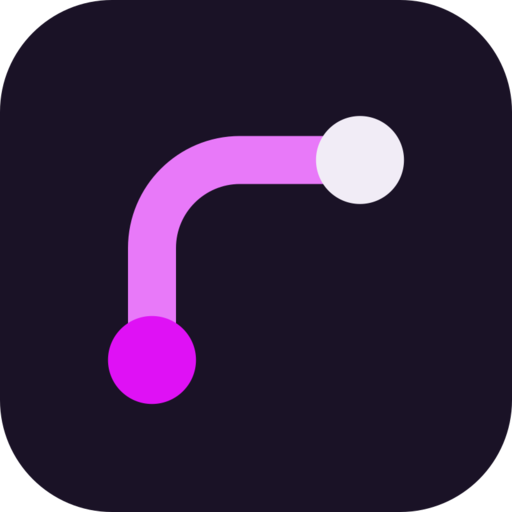
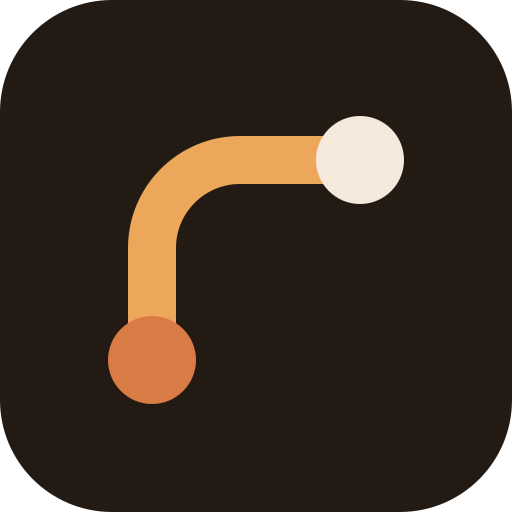
Keep Autumn as the sole production theme

Changed region(s): [[0.1875, 0.2188, 0.8125, 0.8125]]

diff --git a/public/index.html b/public/index.html
@@ -1,10 +1,10 @@
 <!doctype html>
-<html lang="en" data-palette="galenius">
+<html lang="en" data-palette="autumn">
 <head>
 <meta charset="utf-8">
 <meta name="viewport" content="width=device-width, initial-scale=1">
 <meta name="color-scheme" content="dark">
-<meta name="theme-color" content="#0f0a15">
+<meta name="theme-color" content="#17110e">
 <title>AS218429 · GL-AS</title>
 <meta name="description" content="AS218429 (GL-AS) is the hosting and backbone network behind Ruxora and GaleniusNodes. Upstreams, DDoS protection, registry records, geofeed and contact for network operators.">
 <link rel="canonical" href="https://as218429.net/">
@@ -13,19 +13,17 @@
 <meta property="og:url" content="https://as218429.net/">
 <meta property="og:type" content="website">
 <meta property="og:image" content="https://as218429.net/assets/brand/org-icon.png">
-<link rel="icon" href="/assets/brand/org-icon.svg" type="image/svg+xml">
-<link rel="apple-touch-icon" href="/assets/brand/org-icon.png">
+<link rel="icon" href="/assets/brand/org-icon.svg?v=autumn-1" type="image/svg+xml">
+<link rel="apple-touch-icon" href="/assets/brand/org-icon.png?v=autumn-1">
 <link rel="preload" href="/assets/fonts/schibsted-f5ed7f023d.woff2" as="font" type="font/woff2" crossorigin>
-<script src="/assets/palette.js"></script>
-<link rel="stylesheet" href="/assets/site.css">
+<link rel="stylesheet" href="/assets/site.css?v=autumn-1">
 </head>
 <body>
 <a class="skip" href="#main">Skip to content</a>
 <header class="bar" id="top">
   <div class="wrap">
-    <a class="wm" href="#top"><img src="/assets/brand/org-icon.svg" alt="" width="28" height="28"><span>AS218429</span></a>
+    <a class="wm" href="#top"><img src="/assets/brand/org-icon.svg?v=autumn-1" alt="" width="28" height="28"><span>AS218429</span></a>
     <nav aria-label="Sections"><a href="#networks">Networks</a><a href="#protection">Protection</a><a href="#upstreams">Upstreams</a><a href="#records">Records</a><a href="#contact">Contact</a></nav>
-    <div class="pal" role="group" aria-label="Colour palette" data-palette-switch><button type="button" data-set="galenius" aria-pressed="true"><i aria-hidden="true"></i>Galenius</button><button type="button" data-set="autumn" aria-pressed="false"><i aria-hidden="true"></i>Autumn</button></div>
   </div>
 </header>
 
@@ -119,7 +117,7 @@
       <li><a href="mailto:gvol@nexusystems.org?subject=AS218429%20infrastructure%20question%3A%20&amp;body=Hello%2C%0A%0AOrganisation%3A%0AQuestion%3A%0A%0AThanks%2C%0A"><b>Infrastructure</b><span>Hosting infrastructure or backbone questions.</span><i>Ask a question</i></a></li>
       <li><a href="mailto:gvol@nexusystems.org?subject=AS218429%20abuse%20report%3A%20&amp;body=Hello%2C%0A%0AAffected%20IP%20address%28es%29%3A%0ADate%20and%20time%20%28UTC%29%3A%0AType%20of%20abuse%3A%0ALogs%20or%20evidence%20%28with%20timestamps%20and%20time%20zone%29%3A%0A%0AThanks%2C%0A"><b>Abuse</b><span>Affected IP, time, and logs with timestamps.</span><i>Report abuse</i></a></li>
     </ul>
-    <p class="mbox"><span>Mailbox <a href="mailto:gvol@nexusystems.org">gvol@nexusystems.org</a></span><button type="button" class="copy" data-copy="gvol@nexusystems.org" data-status="#copy-status">Copy address</button><span id="copy-status" class="vh" role="status"></span></p>
+    <p class="mbox"><span>Mailbox <a href="mailto:gvol@nexusystems.org">gvol@nexusystems.org</a></span><button type="button" class="copy" hidden data-copy="gvol@nexusystems.org" data-status="#copy-status">Copy address</button><span id="copy-status" class="vh" role="status"></span></p>
   </div>
 </section>
 </main>
@@ -130,6 +128,6 @@
     <nav aria-label="Footer"><a class="ext" href="https://ruxora.org/" target="_blank" rel="noopener noreferrer">Ruxora</a><a class="ext" href="https://galeniusnodes.com/" target="_blank" rel="noopener noreferrer">GaleniusNodes</a><a href="#top">Back to top</a></nav>
   </div>
 </footer>
-<script src="/assets/site.js" defer></script>
+<script src="/assets/site.js?v=autumn-1" defer></script>
 </body>
 </html>

diff --git a/public/assets/site.css b/public/assets/site.css
@@ -1,20 +1,15 @@
-/* as218429.net — one page, two dark palettes (Galenius default, Autumn alternate). */
+/* as218429.net — one page, one dark palette (Autumn). */
 @font-face{font-family:"Schibsted Grotesk";font-style:normal;font-weight:400 800;font-display:swap;src:url("fonts/schibsted-f5ed7f023d.woff2") format("woff2")}
 @font-face{font-family:"IBM Plex Mono";font-style:normal;font-weight:400;font-display:swap;src:url("fonts/plex-mono-d196e8ee77.woff2") format("woff2")}
 
 :root{
   color-scheme:dark;
-  /* Galenius: sampled from galeniusnodes.com production .dark tokens */
-  --bg:#0f0a15;--bg-deep:#09060d;--panel:#1a1226;--panel2:#241a33;--panel3:#2f2342;
-  --line:#d6bef01f;--line2:#d6bef038;--fg:#f1ecf6;--muted:#a99bbb;
-  --accent:#df11f5;--accent2:#e879f9;--on:#0f0a15;--ring:#e879f9;
-  --m:clamp(16px,4vw,56px);--w:1180px;--r:14px;--ease:cubic-bezier(.2,.7,.1,1);
-  --sans:"Schibsted Grotesk",system-ui,sans-serif;--mono:"IBM Plex Mono",ui-monospace,monospace;
-}
-:root[data-palette=autumn]{
+  /* Autumn: warm umber ground, copper and amber accents */
   --bg:#17110e;--bg-deep:#0f0b09;--panel:#241a14;--panel2:#302219;--panel3:#3d2c20;
   --line:#f4e9dc1f;--line2:#f4e9dc38;--fg:#f4e9dc;--muted:#c4ac95;
   --accent:#d87b44;--accent2:#eda75b;--on:#17110e;--ring:#eda75b;
+  --m:clamp(16px,4vw,56px);--w:1180px;--r:14px;--ease:cubic-bezier(.2,.7,.1,1);
+  --sans:"Schibsted Grotesk",system-ui,sans-serif;--mono:"IBM Plex Mono",ui-monospace,monospace;
 }
 
 *{box-sizing:border-box;margin:0;padding:0}
@@ -49,16 +44,6 @@ code{font-family:var(--mono);font-size:.86em;font-variant-numeric:tabular-nums}
 .bar nav{display:flex;gap:22px;font-size:15px;margin-right:auto}
 .bar nav a{text-decoration:none;color:var(--muted);transition:color .2s}
 .bar nav a:hover,.bar nav a[aria-current=true]{color:var(--fg)}
-
-/* Palette switch: hidden until script runs, since it does nothing without it */
-.pal{display:none;gap:2px;padding:2px;background:var(--panel);border-radius:999px;font-size:14px;line-height:1;flex:none}
-.js .pal{display:inline-flex}
-.pal button{display:inline-flex;align-items:center;gap:7px;min-height:34px;padding:0 12px;border:0;border-radius:999px;background:transparent;color:var(--muted);font:500 14px var(--sans);cursor:pointer;transition:background .2s,color .2s}
-.pal button:hover{color:var(--fg);background:var(--panel2)}
-.pal button[aria-pressed=true]{background:var(--fg);color:var(--on)}
-.pal i{display:block;width:9px;height:9px;border-radius:50%;flex:none}
-.pal [data-set=galenius] i{background:#df11f5}
-.pal [data-set=autumn] i{background:#d87b44}
 
 /* Hero */
 .hero{padding:80px 0 0}
@@ -136,8 +121,8 @@ section.s{padding:112px 0 0}
 .ct i{margin-top:auto;padding-top:8px;font-style:normal;color:var(--accent2);font-weight:600;font-size:15px}
 .mbox{display:flex;flex-wrap:wrap;align-items:center;gap:10px 16px;margin-top:16px;font-size:15px;color:var(--muted)}
 .mbox a{color:var(--fg);font-weight:600}
-.copy{display:none;font:600 14px var(--sans);padding:8px 14px;border-radius:999px;border:0;background:var(--panel2);color:var(--fg);cursor:pointer}
-.js .copy{display:inline-block}
+.copy{display:inline-block;font:600 14px var(--sans);padding:8px 14px;border-radius:999px;border:0;background:var(--panel2);color:var(--fg);cursor:pointer}
+.copy[hidden]{display:none}
 .copy:hover{background:var(--panel3)}
 
 footer{margin-top:112px;background:var(--bg-deep);border-top:1px solid var(--line);padding:32px 0 40px;font-size:14px;color:var(--muted)}
@@ -165,6 +150,5 @@ footer a{color:var(--fg)}
   .tbl td{border:0;padding:3px 0}
   .fig,.caps,.brand{padding-left:22px;padding-right:22px}
 }
-@media (max-width:400px){.pal button{padding:0 9px;gap:6px}.wm{font-size:17px;gap:8px}}
+@media (max-width:400px){.wm{font-size:17px;gap:8px}}
 @media (prefers-reduced-motion:reduce){html{scroll-behavior:auto}*,*::before,*::after{transition-duration:.01ms!important}}
-@media (max-width:359px){.bar .wrap{gap:8px}.pal button{padding:0 8px}.pal i{display:none}}

diff --git a/public/assets/site.js b/public/assets/site.js
@@ -1,20 +1,7 @@
 (function () {
   'use strict';
-  var root = document.documentElement, P = window.__palette;
-
-  /* Palette switch */
-  var btns = [].slice.call(document.querySelectorAll('[data-palette-switch] [data-set]'));
-  function sync() { var c = root.getAttribute('data-palette'); btns.forEach(function (b) { b.setAttribute('aria-pressed', String(b.getAttribute('data-set') === c)); }); }
-  function set(v, persist) {
-    if (!P || !P.ok(v)) return;
-    root.setAttribute('data-palette', v);
-    if (persist) try { localStorage.setItem(P.key, v); } catch (e) {}
-    try { var u = new URL(location.href); if (u.searchParams.has('palette')) { u.searchParams.set('palette', v); history.replaceState(history.state, '', u); } } catch (e) {}
-    sync();
-  }
-  btns.forEach(function (b) { b.addEventListener('click', function () { set(b.getAttribute('data-set'), true); }); });
-  addEventListener('storage', function (e) { if (P && e.key === P.key && P.ok(e.newValue)) set(e.newValue, false); });
-  sync();
+  /* Autumn is the only palette. Clear the key left by the retired palette switch. */
+  try { localStorage.removeItem('as218429-palette'); } catch (e) {}
 
   /* Mark the section in view in the header nav */
   var links = [].slice.call(document.querySelectorAll('.bar nav a'));
@@ -27,6 +14,7 @@
 
   /* Copy mailbox */
   document.querySelectorAll('[data-copy]').forEach(function (b) {
+    b.hidden = false;
     var label = b.textContent, status = document.querySelector(b.getAttribute('data-status'));
     b.addEventListener('click', function () {
       var text = b.getAttribute('data-copy');

diff --git a/CONTENT.md b/CONTENT.md
@@ -24,24 +24,21 @@ Not claimed anywhere: other addresses, 24/7 support, SLA, uptime, own filtering 
 
 ## Files
 
-- `public/index.html`: the page. It works without JS; the palette switch and copy button only appear when JS runs.
-- `public/assets/site.css`: tokens for both palettes, plus the font faces.
-- `public/assets/palette.js`: loaded synchronously in `<head>`. Galenius is the default; `?palette=autumn` applies for one load; the choice is stored in localStorage `as218429-palette`.
-- `public/assets/site.js`: palette switch, current-section nav marker, copy address.
+- `public/index.html`: the page, fixed to the Autumn palette (`<html data-palette="autumn">`, `theme-color` `#17110e`). It works without JS; the copy button ships `hidden` and appears only when JS runs.
+- `public/assets/site.css`: the Autumn tokens on `:root` (so they apply without JS), plus the font faces. There is no other palette.
+- `public/assets/site.js`: current-section nav marker, copy address, and a one-time removal of the retired `as218429-palette` localStorage key. Nothing reads `?palette=` or storage, so neither can change the colours. The Galenius palette, the palette switch and `palette.js` were removed on 2026-11-05.
 - `public/assets/fonts/`: Schibsted Grotesk variable (latin) and IBM Plex Mono 400 (latin). Only these two files.
-- `public/assets/brand/`: org/favicon mark. **Chosen: `org-icon.svg` / `org-icon.png`** (512×512, the "route" mark: two nodes joined by one bent path, magenta on plum `#1a1226`). Alternatives are `org-icon-route` (identical to the chosen one), `org-icon-peak` (an A-chevron with a node) and `org-icon-stack` (bars; rejected because it reads as a menu icon). The page links the SVG as its favicon and the PNG as the apple-touch and og image.
+- `public/assets/brand/`: org/favicon mark. **Chosen: `org-icon.svg` / `org-icon.png`** (512×512, the "route" mark: two nodes joined by one bent path, in Autumn colours: amber `#eda75b` path, copper `#d87b44` start node, cream `#f4e9dc` end node, on umber `#241a14`). The PNG is exported from the SVG with ImageMagick. Alternatives are `org-icon-route` (identical to the chosen one, recoloured the same way), `org-icon-peak` (an A-chevron with a node) and `org-icon-stack` (bars; rejected because it reads as a menu icon). Peak and stack still use the old Galenius colours because they are not used. The page links the SVG as its favicon and the PNG as the apple-touch and og image.
 - `public/robots.txt` and `public/sitemap.xml` use the canonical `https://as218429.net/`.
 
 External brand and resource links use `target="_blank" rel="noopener noreferrer"`. The two CDN data links open in the same tab.
 
-## Checks run (2026-11-05, Helium/Chromium via CDP, local `python3 -m http.server`)
+## Checks run (2026-11-05, Autumn-only pass, Helium/Chromium via CDP, local `python3 -m http.server`)
 
-- 1440×900 and 390×844 (DPR 2), in both palettes: no horizontal overflow, no console or log entries, fonts loaded, body background correct for each palette, switch `aria-pressed` in sync.
-- Widths 320, 360, 768 and 1024: no overflow. At 320 the palette switch first overflowed by 9px; fixed by hiding the swatch dots below 360px. The header wordmark and switch do not overlap.
-- Interactions: clicking Autumn sets `data-palette` and localStorage, and the choice survives a reload. Every `#anchor` resolves. All `target=_blank` links carry `noopener noreferrer`. Link list checked: CDN geofeed/network.json, RIPE DB aut-num, RIPEstat, PeeringDB net 43956, bgp.he.net, as209874.net, as49581.net, lg.as49581.net, NovaCloud protection page, ruxora.org, galeniusnodes.com, and the three mailto templates.
-- With JS disabled: the page renders on the dark ground with all content and mailto routes; the switch and copy button are hidden.
-- Impeccable detector: two warnings. "Tbps 5.44px" is a false positive (the computed size is 22.8px or more at every width checked). "Palette switch flush padding" is an intentional 2px segmented-control track.
-- Screenshots: `/tmp/asn-production-{desktop,mobile}-{galenius,autumn}.png`, `/tmp/asn-production-mobile-360-header.png`.
+- 1440×900, 390×844 and 320×640 (DPR 2 on mobile), each loaded with a stale localStorage `as218429-palette=galenius` and with `?palette=galenius`: `data-palette` stays `autumn`, `theme-color` is `#17110e`, the body is `rgb(23,17,14)` and the primary button is `rgb(216,123,68)`. There is no picker element and no horizontal overflow. The console and log are empty, both fonts load, and the stale key is cleared.
+- The favicon SVG returns 200 `image/svg+xml` and the header mark renders. Clicking Copy puts `gvol@nexusystems.org` on the clipboard, the button reads "Copied" and the live status is announced.
+- With JS disabled, at all three sizes: Autumn colours, no overflow, and the copy button is hidden. The mailto routes remain.
+- The copy, layout and links are unchanged from the previous pass; only the palette code and the icon colours changed.
 
 ## Limits
 
